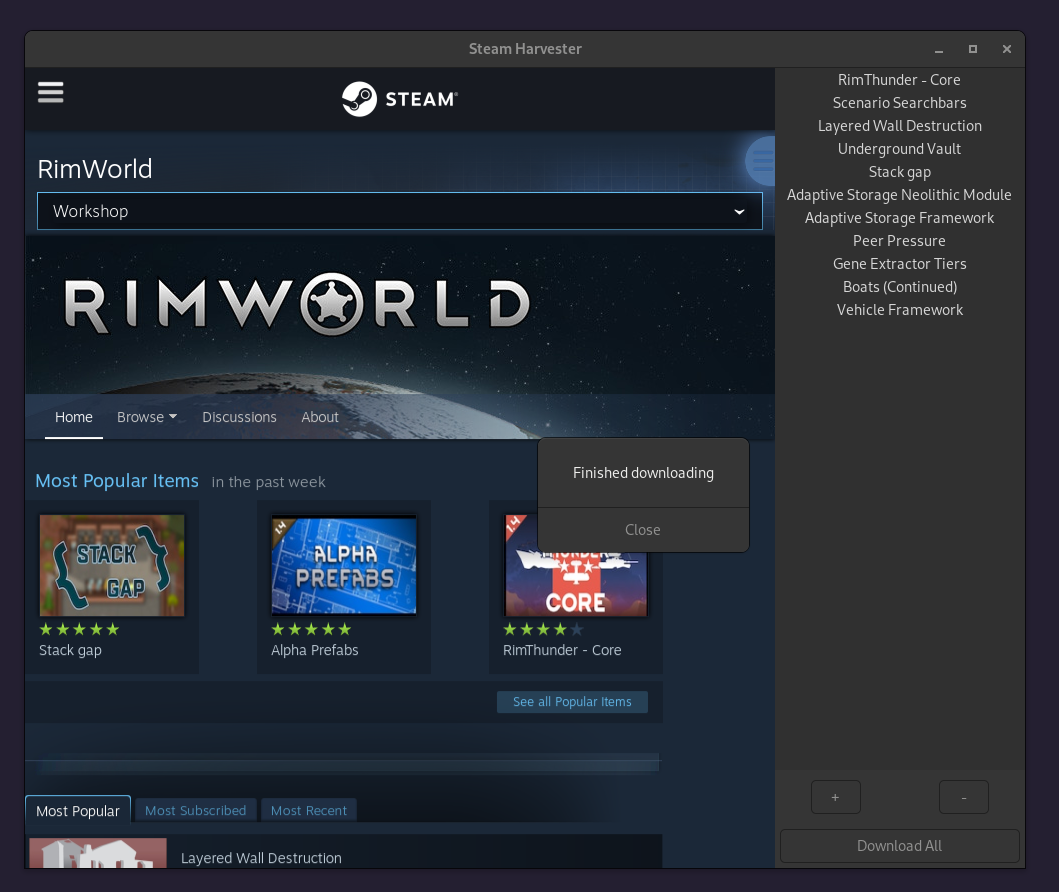
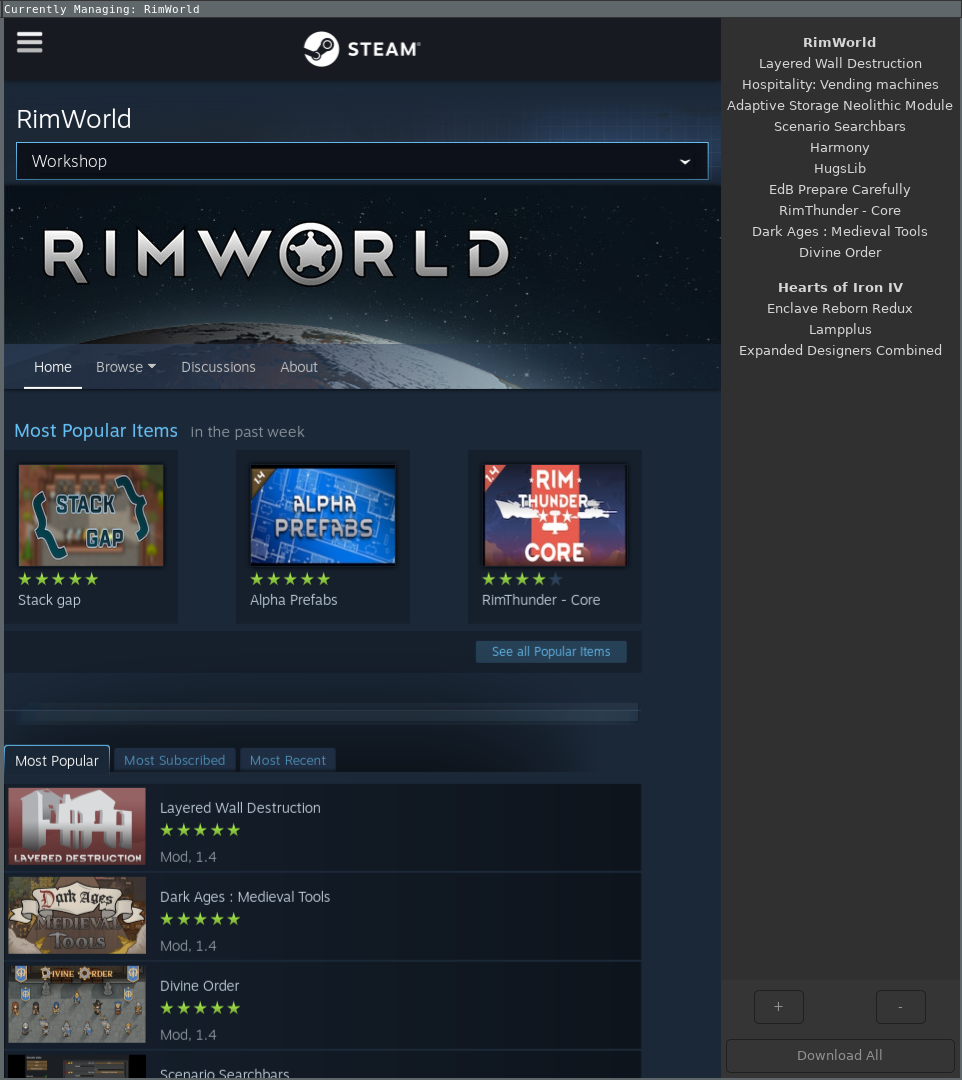
refactoring, testing config file now before loading it, making it look pretty

diff --git a/main.cpp b/main.cpp
@@ -12,15 +12,7 @@
 
 #include "config.hpp"
 
-Config config = load_config();
-
-void fill_list_box(GtkListBox* list_box, const std::vector<Mod>& mods) {
-  for (const Mod& mod : mods) {
-    std::string lname = mod.mod_name;
-    GtkWidget* label = gtk_label_new(lname.c_str());
-    gtk_container_add(GTK_CONTAINER(list_box), label);
-  }
-}
+Config config;
 
 void on_entry_activate(GtkEntry* entry, GtkDialog* dialog) {
   gtk_dialog_response(dialog, GTK_RESPONSE_ACCEPT);
@@ -65,13 +57,6 @@ static void download_item(const std::string& item_id) {
   // if buffer contains ERROR! then cerr
   if (result.find("ERROR!") != std::string::npos) {
     std::cerr << "Mod id: " << item_id << " failed." << std::endl;
-    std::cerr << result << std::endl;
-
-    GtkWidget* dialog = gtk_message_dialog_new(
-        NULL, GTK_DIALOG_DESTROY_WITH_PARENT, GTK_MESSAGE_ERROR,
-        GTK_BUTTONS_CLOSE, "Failed to download item: %s", item_id.c_str());
-    gtk_dialog_run(GTK_DIALOG(dialog));
-    gtk_widget_destroy(dialog);
   }
 }
 
@@ -127,21 +112,6 @@ static gboolean on_button_press_event(GtkWidget* widget, GdkEventButton* event,
   return FALSE;
 }
 
-static void remove_item_from_list(GtkButton* button, gpointer user_data) {
-  GtkListBox* list_box = GTK_LIST_BOX(user_data);
-  GtkListBoxRow* row = gtk_list_box_get_selected_row(list_box);
-
-  if (row != NULL) {
-    int index = gtk_list_box_row_get_index(row);
-
-    config.mods.erase(config.mods.begin() + index);
-
-    gtk_widget_destroy(GTK_WIDGET(row));
-  }
-
-  save_config(config);
-}
-
 static size_t WriteCallback(void* contents, size_t size, size_t nmemb,
                             std::string* out) {
   size_t realsize = size * nmemb;
@@ -149,7 +119,7 @@ static size_t WriteCallback(void* contents, size_t size, size_t nmemb,
   return realsize;
 }
 
-std::string get_workshop_game_name() {
+std::string get_workshop_game_name(std::string game_id = "") {
   CURL* curl = curl_easy_init();
   std::string read_buffer;
 
@@ -169,12 +139,71 @@ std::string get_workshop_game_name() {
   for (auto& app : apps) {
     int appid = app["appid"].get<int>();
 
-    if (std::to_string(appid) == config.last_monitored_id) {
+    if (game_id.empty()) {
+      if (std::to_string(appid) == config.last_monitored_id) {
+        return app["name"].get<std::string>();
+      }
+    }
+
+    else if (std::to_string(appid) == game_id) {
       return app["name"].get<std::string>();
     }
   }
 
   return std::string();
+}
+
+void fill_list_box(GtkListBox* list_box, const std::vector<Mod>& mods) {
+  gtk_container_foreach(
+      GTK_CONTAINER(list_box),
+      [](GtkWidget* child, gpointer user_data) { gtk_widget_destroy(child); },
+      NULL);
+
+  std::sort(config.mods.begin(), config.mods.end(),
+            [](const Mod& a, const Mod& b) { return a.game_id < b.game_id; });
+
+  std::string current_game_id;
+  for (const Mod& mod : config.mods) {
+    if (mod.game_id != current_game_id) {
+      GtkWidget* padding_row = gtk_list_box_row_new();
+      GtkWidget* box = gtk_box_new(GTK_ORIENTATION_HORIZONTAL, 0);
+      gtk_widget_set_size_request(box, -1, 10);
+      gtk_container_add(GTK_CONTAINER(padding_row), box);
+      gtk_list_box_insert(list_box, padding_row, -1);
+      gtk_widget_show_all(padding_row);
+
+      current_game_id = mod.game_id;
+      std::string current_game_name = get_workshop_game_name(current_game_id);
+      std::string bold_game_name = "<b>" + current_game_name + "</b>";
+      GtkWidget* game_label = gtk_label_new(NULL);
+      gtk_label_set_markup(GTK_LABEL(game_label), bold_game_name.c_str());
+      gtk_list_box_insert(list_box, game_label, -1);
+      gtk_widget_show_all(game_label);
+    }
+
+    GtkWidget* row = gtk_list_box_row_new();
+    GtkWidget* label = gtk_label_new(mod.mod_name.c_str());
+    gtk_container_add(GTK_CONTAINER(row), label);
+    gtk_list_box_insert(list_box, row, -1);
+    gtk_widget_show_all(row);
+  }
+}
+
+static void remove_item_from_list(GtkButton* button, gpointer user_data) {
+  GtkListBox* list_box = GTK_LIST_BOX(user_data);
+  GtkListBoxRow* row = gtk_list_box_get_selected_row(list_box);
+
+  if (row != NULL) {
+    int index = gtk_list_box_row_get_index(row);
+
+    config.mods.erase(config.mods.begin() + index);
+
+    gtk_widget_destroy(GTK_WIDGET(row));
+  }
+
+  save_config(config);
+
+  fill_list_box(list_box, config.mods);
 }
 
 static std::string get_workshop_item_name(const std::string& item_id) {
@@ -254,6 +283,8 @@ static void add_item_to_list(GtkButton* button, gpointer user_data) {
   }
 
   save_config(config);
+
+  fill_list_box(GTK_LIST_BOX(user_data), config.mods);
 }
 
 static void show_browser(GtkWidget* grid) {
@@ -423,6 +454,31 @@ static void activate(GtkApplication* app, gpointer user_data) {
 int main(int argc, char** argv) {
   GtkApplication* app;
   int status;
+
+  if (std::filesystem::exists("config.json")) {
+    std::ifstream config_file("config.json");
+    std::string config_json((std::istreambuf_iterator<char>(config_file)),
+                            std::istreambuf_iterator<char>());
+
+    if (config_json.empty()) {
+      std::cerr << "Config file is empty" << std::endl;
+    }
+
+    else {
+      try {
+        config = load_config();
+      }
+
+      catch (nlohmann::json::parse_error& e) {
+        std::cerr << "Error parsing config file" << std::endl;
+      }
+    }
+  }
+
+  else {
+    std::ofstream config_file("config.json");
+    save_config(config);
+  }
 
   app = gtk_application_new("xyz.tpby", G_APPLICATION_DEFAULT_FLAGS);
   g_signal_connect(app, "activate", G_CALLBACK(activate), NULL);
